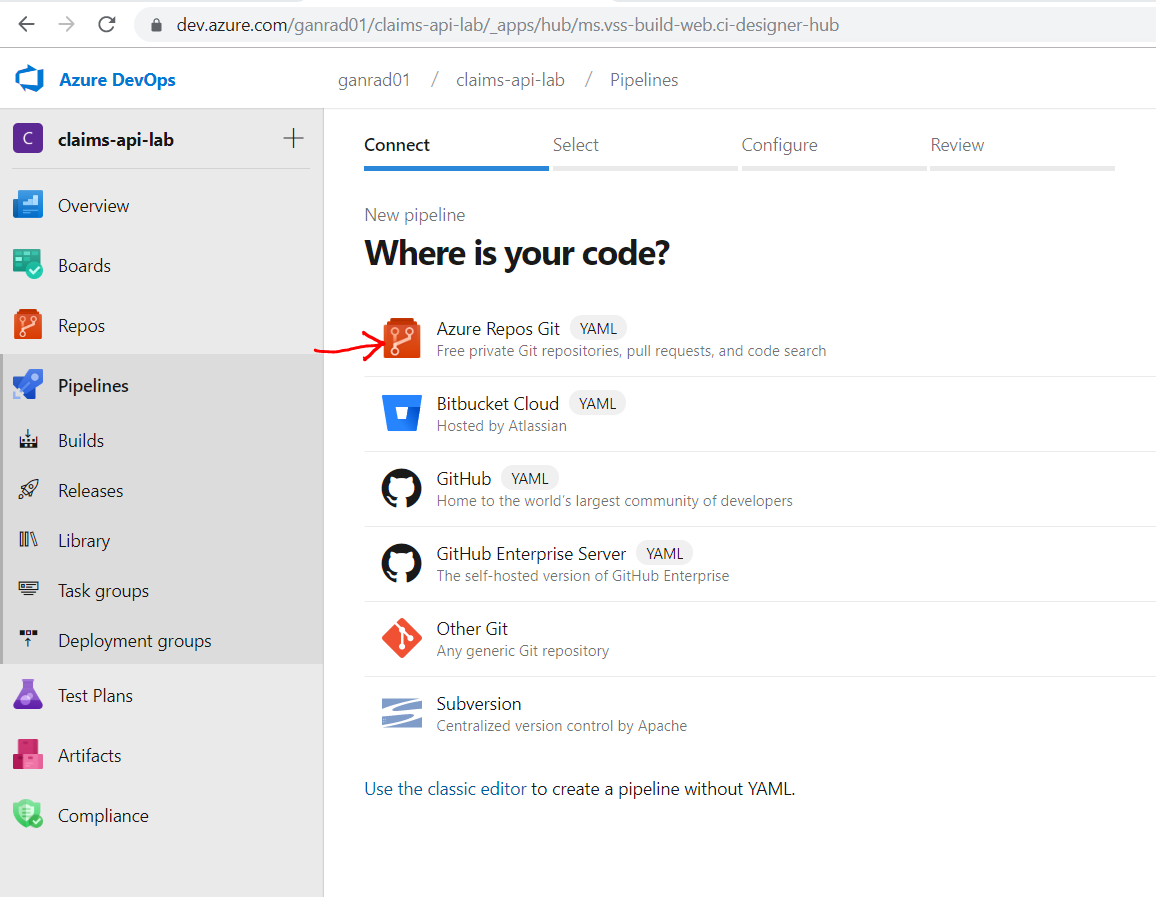
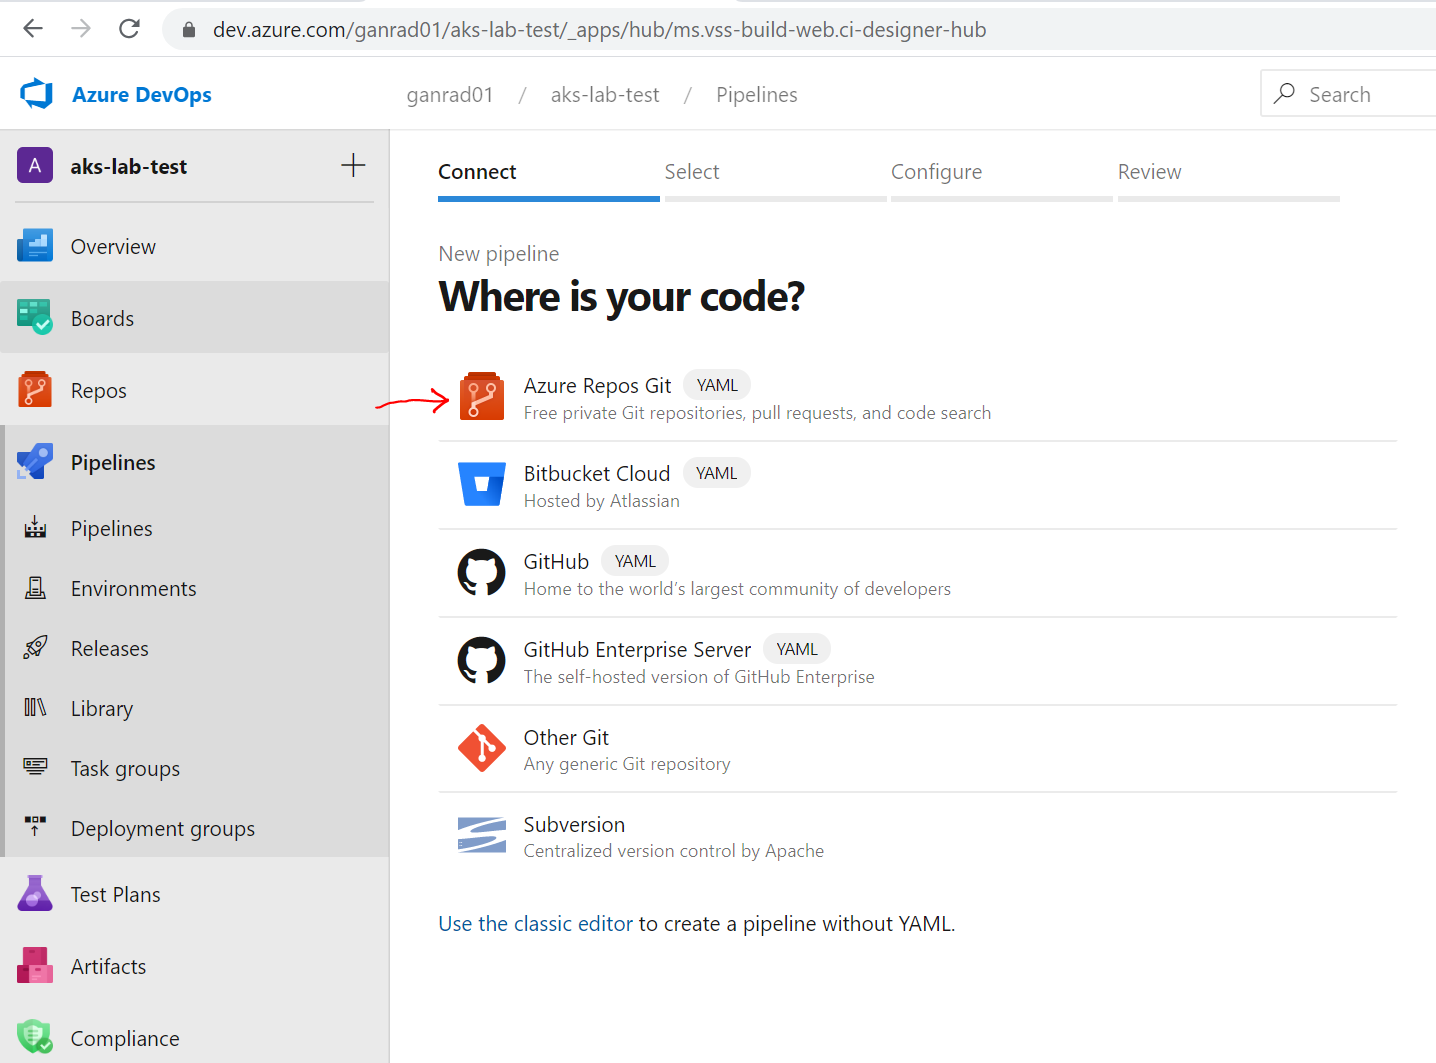
Updated Readme doc and images

diff --git a/README.md b/README.md
@@ -56,7 +56,7 @@ This project provides step by step instructions to use **Azure DevOps Services**
 ![alt tag](./images/aks-aspnetcore-sqldb-rest.PNG)
 
 For easy and quick reference, readers can refer to the following on-line resources as needed.
-- [Azure CLI 2.0](https://docs.microsoft.com/en-us/cli/azure/install-azure-cli?view=azure-cli-latest)
+- [Azure CLI](https://docs.microsoft.com/en-us/cli/azure/install-azure-cli?view=azure-cli-latest)
 - [ASP.NET Core 3.1 Documentation](https://docs.microsoft.com/en-us/aspnet/core/?view=aspnetcore-3.1)
 - [Docker Documentation](https://docs.docker.com/)
 - [Kubernetes Documentation](https://kubernetes.io/docs/home/?path=users&persona=app-developer&level=foundational)
@@ -65,7 +65,7 @@ For easy and quick reference, readers can refer to the following on-line resourc
 - [Azure Kubernetes Service (AKS) Documentation](https://docs.microsoft.com/en-us/azure/aks/)
 - [Azure Container Registry Documentation](https://docs.microsoft.com/en-us/azure/container-registry/)
 - [Azure DevOps Documentation](https://docs.microsoft.com/en-us/vsts/index?view=vsts)
-- [Zero instrumentation application monitoring for Kubernetes with Application Insights](https://docs.microsoft.com/en-us/azure/azure-monitor/app/kubernetes)
+- [Application Insights for ASP.NET Core applications](https://docs.microsoft.com/en-us/azure/azure-monitor/app/asp-net-core)
 
 **Important Notes:**
 - AKS is a managed [Kubernetes](https://kubernetes.io/) service on Azure.  Please refer to the [AKS](https://azure.microsoft.com/en-us/services/container-service/) product web page for more details.
@@ -1450,7 +1450,7 @@ In this section, we will build and deploy a *Continuous Delivery* pipeline in Az
 
     ![alt tag](./images/I-16.PNG)
 
-    Specify values for **Subscription**, **Resource Group**, **Name** and **Region** and click **Review + create**.
+    Specify values for **Subscription**, **Resource Group**, **Name** and **Region** and click **Review + create**.  Use the same Resource Group and Region where you deployed all other resources in this project.
 
     ![alt tag](./images/I-17.PNG)
     
@@ -1458,7 +1458,7 @@ In this section, we will build and deploy a *Continuous Delivery* pipeline in Az
 
     ![alt tag](./images/I-18.PNG)
 
-    Enable metrics collection by updating the Claims API application code.  Once metrics collection is enabled, the Application Insights SDK will instrument the application at runtime and send telemetry (server requests, server response times, availability, failed requests etc) data to Azure.  This is a *Zero instrumentation* application monitoring solution (currently in public preview for AKS).  Refer to the *Prerequisites* section for links to Application Insights documentation.
+    Enable metrics collection by updating the Claims API application code.  Once metrics collection is enabled, the Application Insights SDK will instrument the application at runtime and send telemetry (server requests, server response times, availability, failed requests etc) data to Azure.  Refer to the *Prerequisites* section for links to Azure Monitor (**Application Insights for ASP.NET Core applications**) documentation.
 
     In the *Repos* view, click on `Program.cs` file.  Edit this file by clicking on the *pencil* icon.  Uncomment line # 22 as shown in the screenshot below.
 
@@ -1474,7 +1474,7 @@ In this section, we will build and deploy a *Continuous Delivery* pipeline in Az
 
 5.  Create an Azure DevOps Delivery Pipeline and execute it
 
-    Click on *Pipelines* menu on the left navigational panel.  Click on *Builds* and then click on *+ New* drop down menu.  Select *New build pipeline* menu item.  See screenshot below.    
+    Click on *Pipelines* menu on the left navigational panel.  Then click on *New Pipeline* as shown in the screenshot below.    
 
     ![alt tag](./images/I-09.PNG)
 
@@ -1482,7 +1482,7 @@ In this section, we will build and deploy a *Continuous Delivery* pipeline in Az
 
     ![alt tag](./images/I-10.PNG)
 
-    In the next tab, select the `aks-aspnet-sqldb-rest` repository which you imported in Step [1] above.
+    In the next tab, select the Git repository which you imported in Step [1] above. The name of the first Git repository in *Repos* should the same as the *Project* name.
 
     ![alt tag](./images/I-19.PNG)
 
@@ -1494,7 +1494,7 @@ In this section, we will build and deploy a *Continuous Delivery* pipeline in Az
 
     ![alt tag](./images/I-12.PNG)
 
-    After the pipeline completes OK, verify the following (left as an exercise)
+    After the pipeline completes OK, verify the following (left as an exercise).
     - Confirm a new container image for *Claims API* microservice was built and pushed into ACR
     - Verify a new revision for the Claims API microservice application (**aks-aspnetcore-lab**) was deployed successfully on AKS.  Check the update date and time of the release revision.
     - Verify the container image in the Pod manifest matches the container image (tag and Digest) pushed into ACR.
